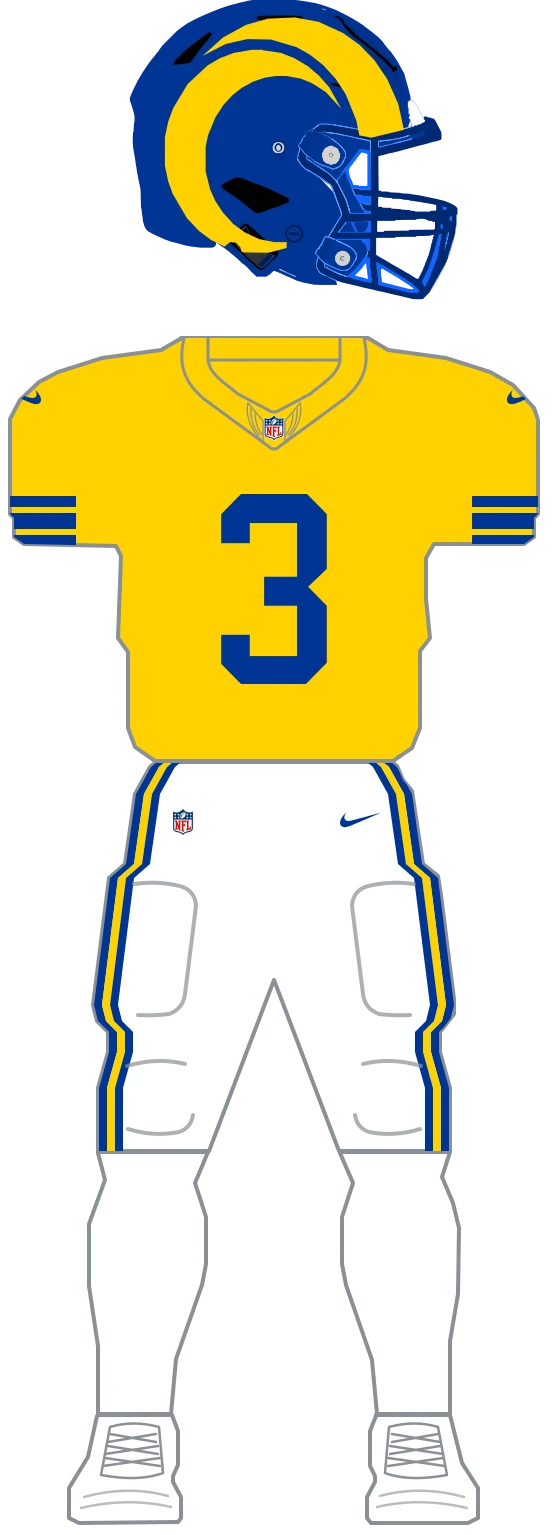
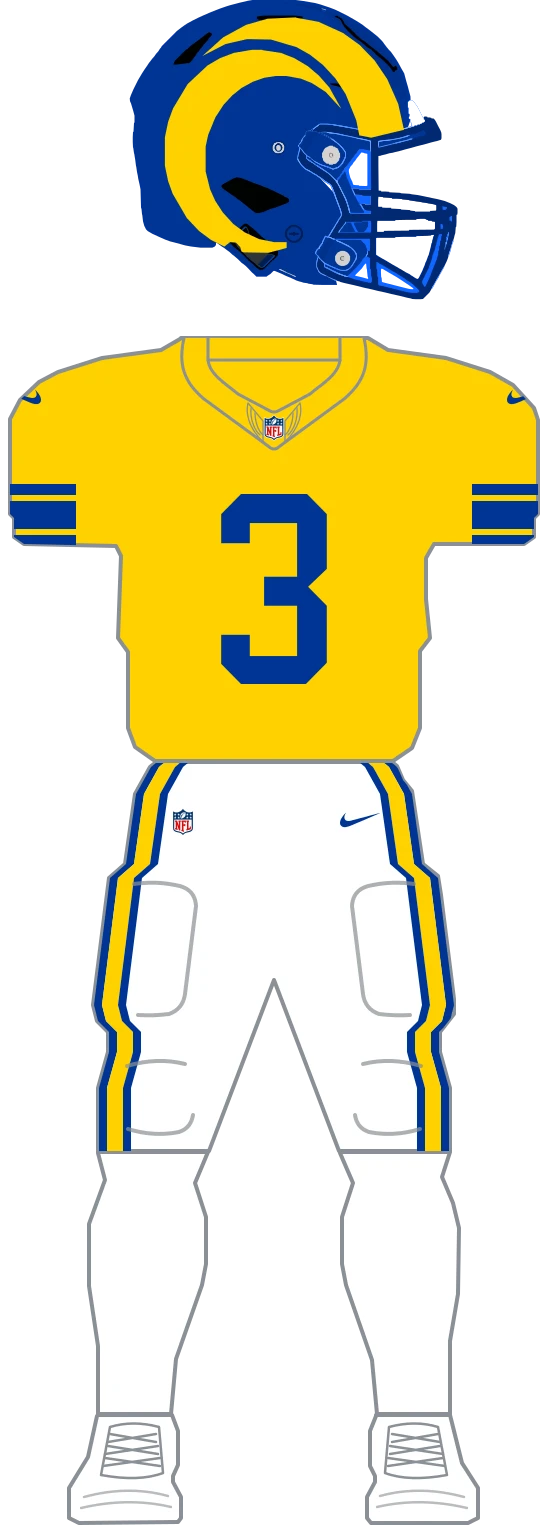
fix(uniforms): widen the Classic Sol middle sleeve stripe and pant Sol band for the Rams

diff --git a/web/lib/uniforms/teams/rams/jerseys/alternates-2026.ts b/web/lib/uniforms/teams/rams/jerseys/alternates-2026.ts
@@ -1,8 +1,8 @@
 import type { CompleteJerseySpec } from '../../core/complete';
 import { ramsFullSleeveHorn } from '../marks/construction';
 
-// Sol body with a body-coloured collar, three royal stripes near each sleeve hem and flat royal
-// block numerals.
+// Sol body with a body-coloured collar, thin, broad and thin royal stripes near each sleeve hem
+// and flat royal block numerals.
 export const RAMS_JERSEY_CLASSIC_SOL: CompleteJerseySpec = {
   body: 'yellow',
   collar: {
@@ -20,7 +20,7 @@ export const RAMS_JERSEY_CLASSIC_SOL: CompleteJerseySpec = {
   sleeveStripes: {
     bands: [
       { color: 'royal', size: 's' },
-      { color: 'royal', size: 'm' },
+      { color: 'royal', size: 'l' },
       { color: 'royal', size: 's' },
     ],
     gap: 'narrow',

diff --git a/web/lib/uniforms/teams/rams/parts.ts b/web/lib/uniforms/teams/rams/parts.ts
@@ -75,14 +75,15 @@ export const RAMS_SPEC: TeamSpec = {
       stripes: 'none',
       marks: [{ paint: 'over', mark: ramsLegStripe('yellow', 'royal') }],
     },
-    // Classic Sol's royal, Sol and royal triple stripe down the side of the leg.
+    // Classic Sol's royal, Sol and royal triple stripe down the side of the leg, the Sol band twice
+    // the width of each royal band.
     'classic-sol': {
       body: 'white',
       stripes: {
         position: 'leg-edge',
         bands: [
           { color: 'royal', size: 's' },
-          { color: 'yellow', size: 's' },
+          { color: 'yellow', size: 'm' },
           { color: 'royal', size: 's' },
         ],
         gap: 'none',

diff --git a/web/lib/uniforms/teams/__tests__/rams.parts.test.ts b/web/lib/uniforms/teams/__tests__/rams.parts.test.ts
@@ -87,9 +87,9 @@ describe('Rams pants parts', () => {
 });
 
 describe('Rams jerseys', () => {
-  it('gives Classic Sol a wider middle sleeve stripe', () => {
+  it('gives Classic Sol a broad middle sleeve stripe', () => {
     expect(RAMS_JERSEY_CLASSIC_SOL.sleeveStripes).toMatchObject({
-      bands: [{ size: 's' }, { size: 'm' }, { size: 's' }],
+      bands: [{ size: 's' }, { size: 'l' }, { size: 's' }],
     });
   });
   it('uses the same Sol paint for the 2020 helmet, pants and white jersey sleeves', () => {
